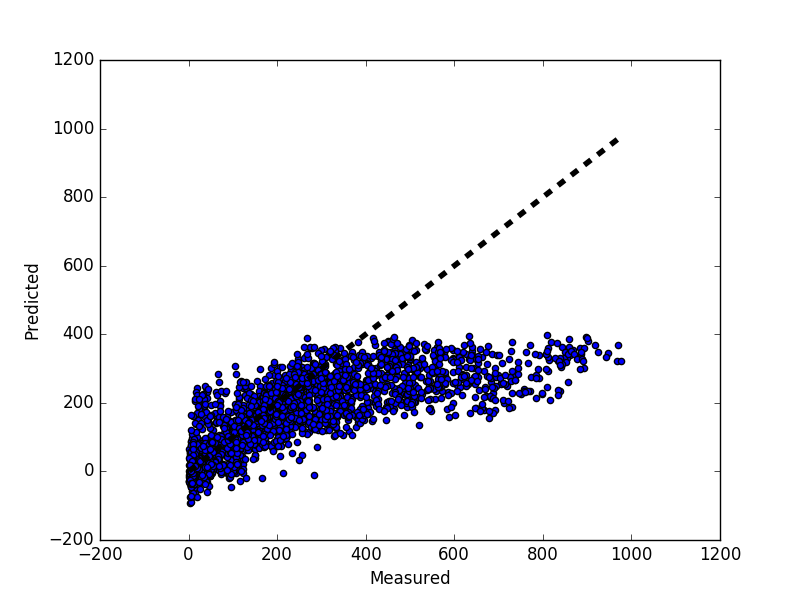
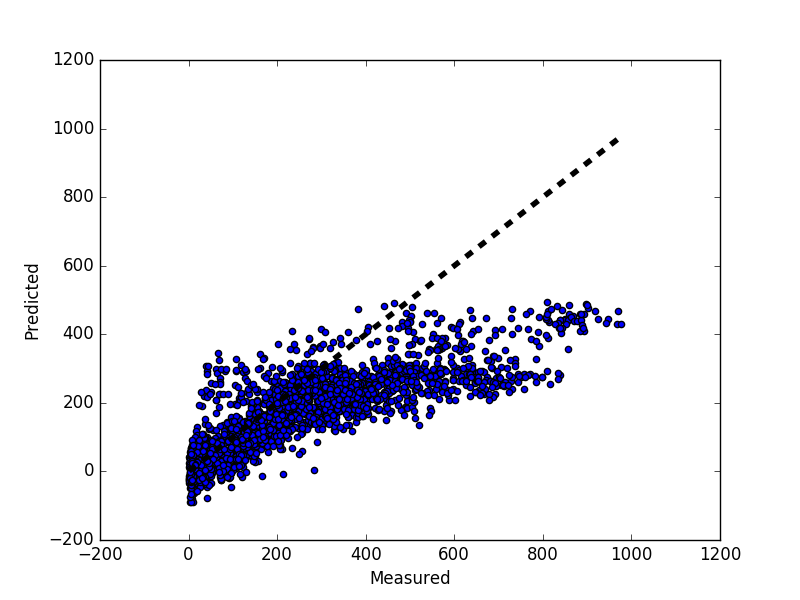
hours bin created according to clusters

Changed region(s): [[0.2188, 0.48, 0.7812, 0.84]]

diff --git a/BERSAC_Guillaume_Code.py b/BERSAC_Guillaume_Code.py
@@ -1,3 +1,4 @@
+from sklearn import cluster, datasets
 from sklearn.ensemble import RandomForestRegressor, ExtraTreesRegressor
 from sklearn.cross_validation import cross_val_predict
 import math
@@ -10,6 +11,7 @@ import matplotlib.pyplot as plt
 
 FILE_NAME_TRAIN = 'data.csv'
 FILE_NAME_TEST = 'test.csv'
+NB_HOUR_CLUSTER = 12
 
 ################################################################################
 # Formatting data                                                              #
@@ -79,20 +81,35 @@ def formatData(data):
 			zip(*data['weather'].map(refactorWeather))
 	data.drop('weather', axis=1, inplace=True)
 
-	### Refactor `hour` to non-multi-categorial
-	def refactorHour(x):
-		toReturn = [0, 0, 0, 0, 0, 0, 0, 0]
-		toReturn[int(x / 3)] = 1
-		return tuple(toReturn)
-	data['0-2'], data['3-5'], data['6-8'], data['9-11'], data['12-14'], data['15-17'], data['18-20'], data['21-23'] \
-			= zip(*data['hour'].map(refactorHour))
-
 	return data
 
-trainDS = formatData(pd.read_csv(FILE_NAME_TRAIN)) # DS for Data Set
+### Read from files
+rawTrainData = pd.read_csv(FILE_NAME_TRAIN)
+rawTestData = pd.read_csv(FILE_NAME_TEST)
+
+trainDS = formatData(rawTrainData) # DS for Data Set
 
 # This is the files which contain the predicting value for kaggle competition
-outputX = formatData(pd.read_csv(FILE_NAME_TEST)).as_matrix()
+outputX = formatData(rawTestData).as_matrix()
+
+### Cluster hours
+# compute model
+KMean = cluster.KMeans(n_clusters=NB_HOUR_CLUSTER)
+KMean.fit(trainDS['hour'].reshape(-1, 1), trainDS['count'].reshape(-1, 1))
+
+def refatorHour2(data):
+	"""
+	Transform an hour to a tuple with the cluster it belongs to set to one.
+	"""
+	global KMean
+	floatHours = data['hour'].astype('float64')
+	for i in range(0, NB_HOUR_CLUSTER):
+		serieName = 'hourCluster' + str(i)
+		serie = KMean.predict(floatHours.reshape(-1, 1))
+		serie = pd.Series(map(lambda x: int(x == i), serie))
+		data[serieName] = serie
+
+refatorHour2(trainDS)
 
 ### Refactor trainDS
 # Delete redundant values
@@ -113,6 +130,8 @@ testX = trainDS.loc[trainDS.shape[0] * 4 / 5:, cols].as_matrix()
 # for the result
 trainY = trainDS.loc[:trainDS.shape[0] * 4 / 5, ['count']].as_matrix()
 testY = trainDS.loc[trainDS.shape[0] * 4 / 5 :, ['count']].as_matrix()
+
+trainDS.to_csv('mytest.csv', index=False)
 
 ################################################################################
 # Linear regression model                                                      #
@@ -169,8 +188,8 @@ fig.savefig('img/final_clf.png')
 # Output for kaggle competition                                                #
 ################################################################################
 
-### Output for the kaggle submission
-df = pd.DataFrame({})
-df['datetime'] = pd.read_csv(FILE_NAME_TEST)['datetime']
-df['count'] = pd.Series(predicted)
-df.to_csv('output.csv', index=False)
+# ### Output for the kaggle submission
+# df = pd.DataFrame({})
+# df['datetime'] = pd.read_csv(FILE_NAME_TEST)['datetime']
+# df['count'] = pd.Series(predicted)
+# df.to_csv('output.csv', index=False)
